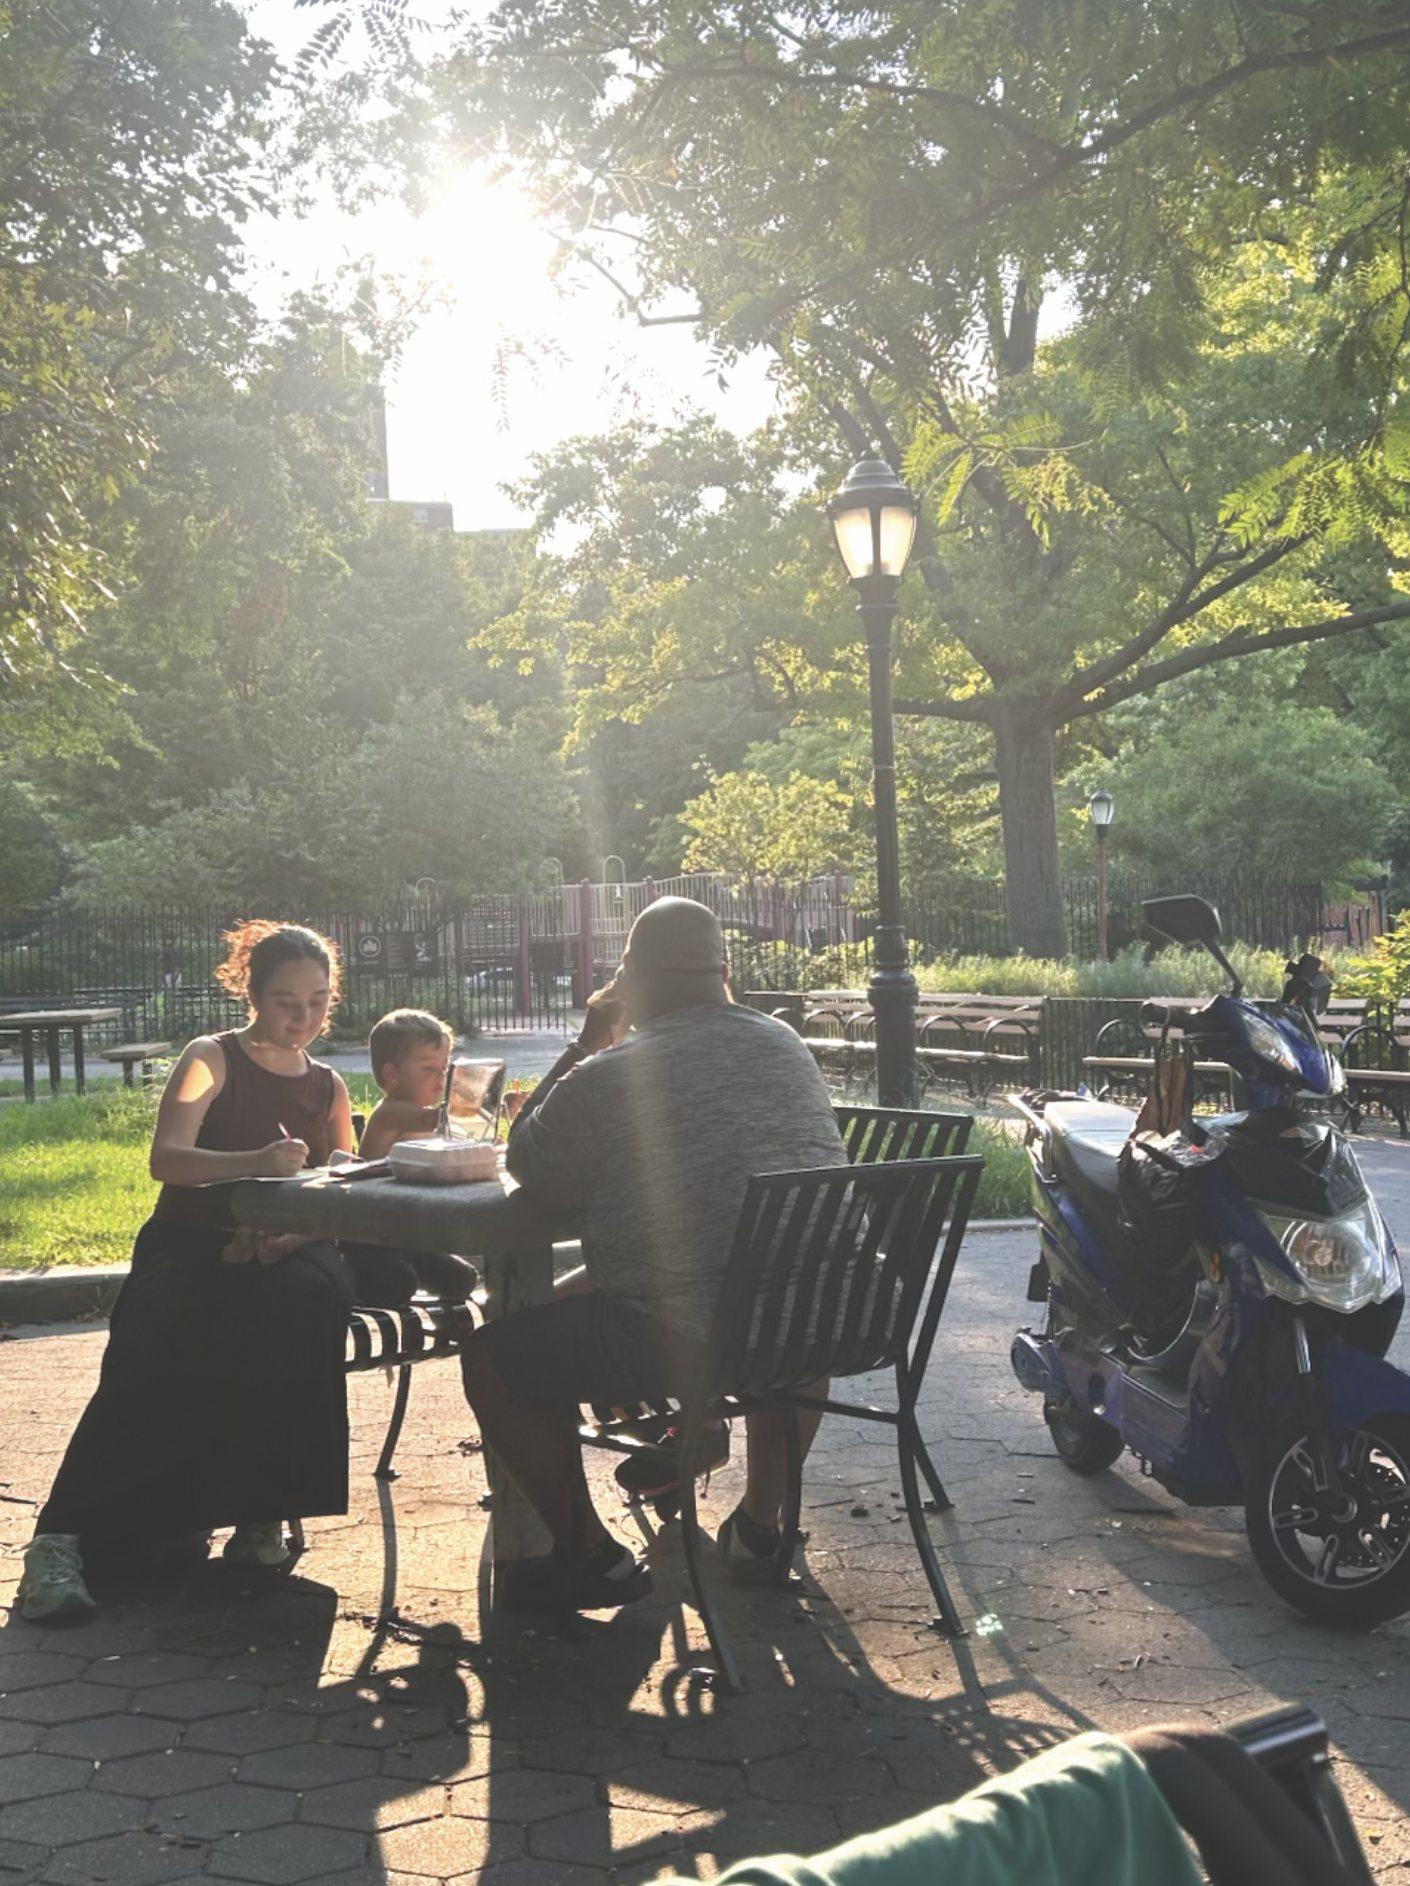
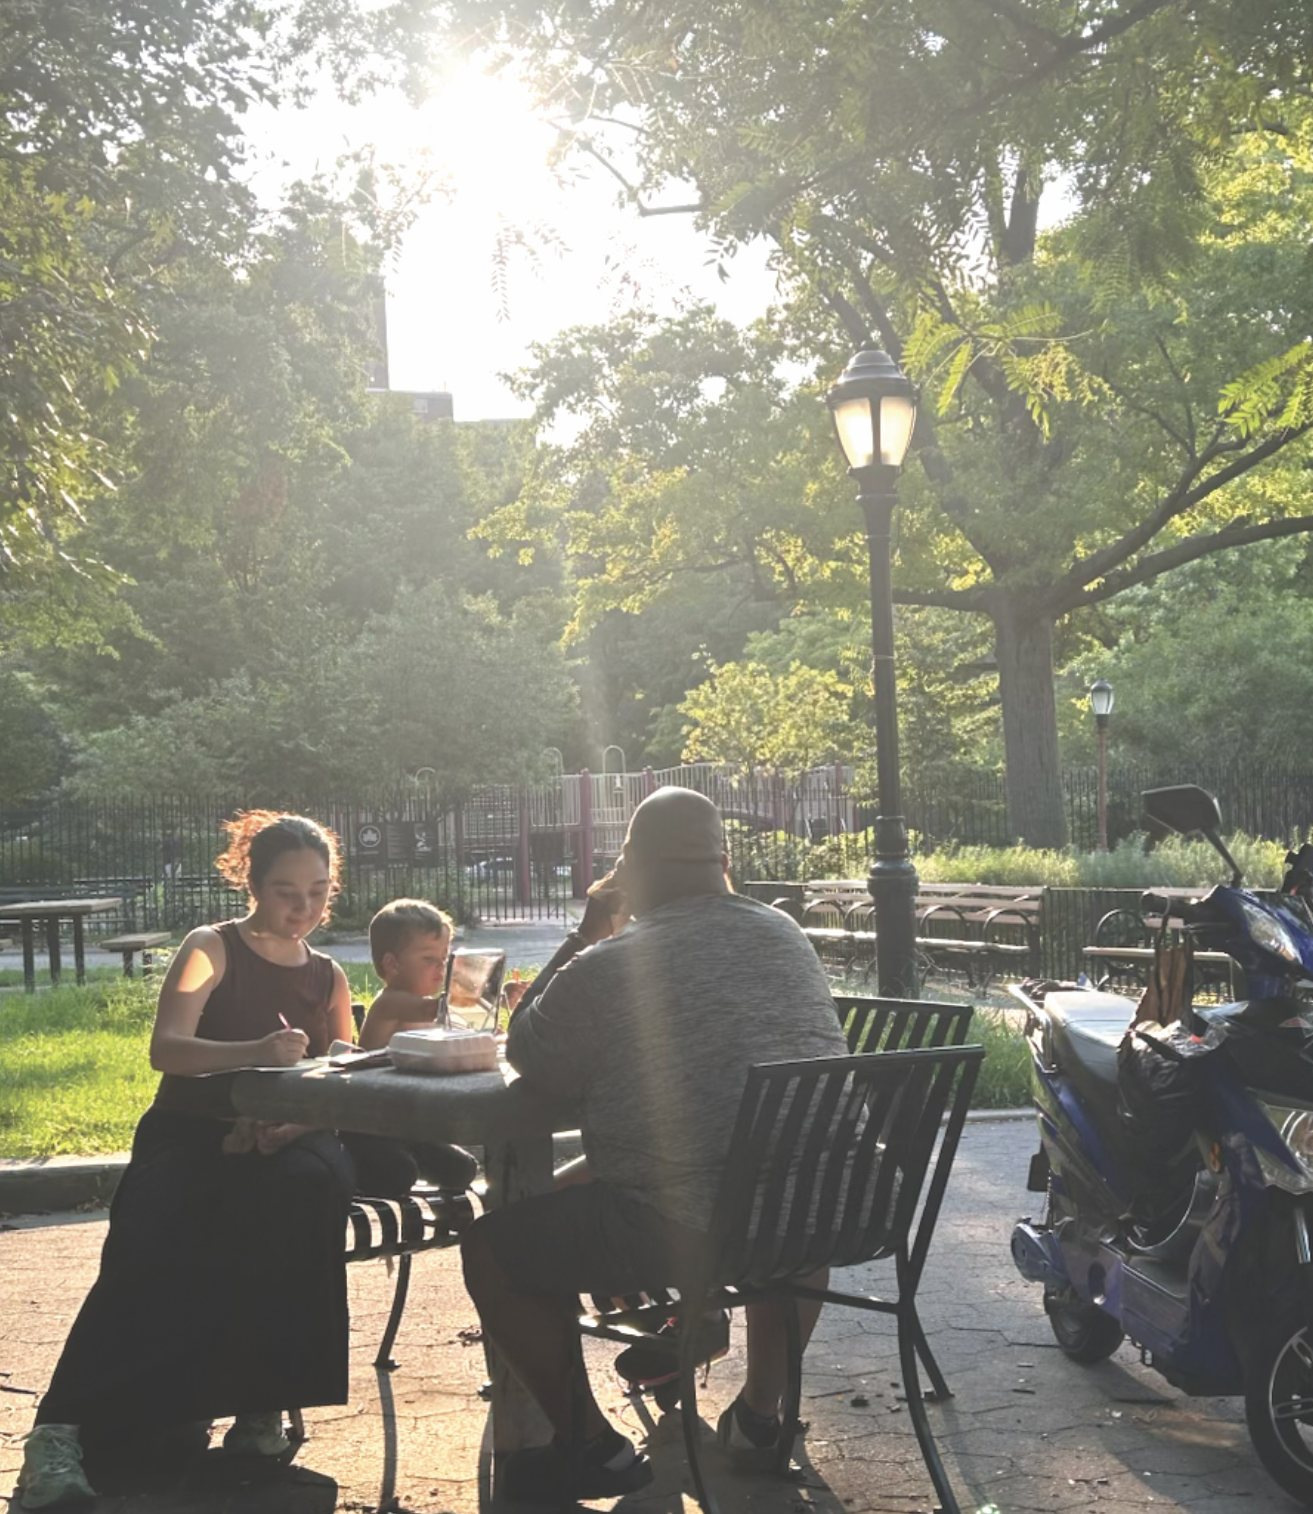
New Yorkers: tighter park photo, larger paired photos
Claude-Session: https://claude.ai/code/session_01X5WmVuL6UKnR1PWG9zHA7Q

diff --git a/reader/index.html b/reader/index.html
@@ -59,7 +59,7 @@ body::before{content:"";position:fixed;inset:0 0 auto;height:env(safe-area-inset
 .prose .photo.small{grid-template-columns:minmax(0,var(--w)) 15ch;width:auto}
 .prose .photo>figcaption{grid-column:2;grid-row:1;font-family:var(--disp);font-size:13px;line-height:1.5;color:var(--mute);padding-top:10px;border-top:3px solid var(--tint);align-self:end}
 .prose .photo>figcaption::before{content:"Photograph";display:block;font-size:11px;letter-spacing:.12em;text-transform:uppercase;font-weight:700;color:var(--tint);margin-bottom:6px}
-.prose .photo.pair{grid-template-columns:1fr 1fr;gap:20px;align-items:start}
+.prose .photo.pair{grid-template-columns:1fr 1fr;gap:22px;align-items:start;width:min(66rem,calc(100vw - 32px))}
 .prose .photo.pair>div{min-width:0}
 .prose .photo.pair>div img{display:block;width:100%;height:auto;border-radius:4px}
 .prose .photo.pair>div figcaption{font-family:var(--disp);font-size:13px;line-height:1.5;color:var(--mute);margin-top:10px;padding-top:10px;border-top:3px solid var(--tint)}
@@ -134,7 +134,7 @@ a:focus-visible{outline:2px solid var(--fg);outline-offset:3px}
 <p>Sobhani says, “People entered our home with such zeal. Before the screening started, we took a moment to admire the room filled with an array of people. The diversity was so rich – it alone made the night worthwhile.” After chatting over dinner and experiencing the films, participants shared what resonated with them and “how they wanted to show up for children,” says Guaman. Inspired, the group shared a prayer for the children in their lives and community.</p>
 <figure class="photo"><img src="../img/ny-film.jpg" alt="Community members watch a film during a devotional gathering at Felicia Sobhani's home." loading="lazy"><figcaption>Community members watch a film during a devotional gathering at Felicia Sobhani's home.</figcaption></figure>
 <p>Across the bridge in Crown Heights, Brooklyn, Juliet Bogan decided to put brush to canvas at a local park. Bogan enjoys oil painting, and brought her supplies to express creativity in the open air. Aware that children might ask to join, she also brought along washable children's paints, a pad of paper and extra brushes.</p>
-<figure class="photo"><img src="../img/ny-park.jpg" alt="Painting with children at the plaza in Crown Heights, Brooklyn." loading="lazy"><figcaption>Painting with children at the plaza in Crown Heights, Brooklyn.</figcaption></figure>
+<figure class="photo small" style="--w:720px"><img src="../img/ny-park.jpg" alt="Painting with children at the plaza in Crown Heights, Brooklyn." loading="lazy"><figcaption>Painting with children at the plaza in Crown Heights, Brooklyn.</figcaption></figure>
 <blockquote class="pull"><p>And paint I most certainly did not! The arts are magnetic.</p><cite>Juliet Bogan</cite></blockquote>
 <p>As she prepared to paint, more than half a dozen children and their parents gathered around her. Using three nearby tables, Bogan spent the afternoon guiding the expanding group of children and getting to know the families. Since then, the classes are held weekly in this same plaza. Friends from the neighborhood, many of them youth, are now supporting the effort. As a result, relationships among a growing group of families living in the complex adjacent to the park are developing.</p>
 <figure class="photo"><img src="../img/ny-table.jpg" alt="The painting table at the plaza in Crown Heights: a watercolor set, children's brushes, and the portrait captioned I am kind, loving, and friendly." loading="lazy"><figcaption>The painting table at the plaza in Crown Heights: a watercolor set, children's brushes, and the portrait captioned I am kind, loving, and friendly.</figcaption></figure>

diff --git a/folio/index.html b/folio/index.html
@@ -88,7 +88,7 @@ body::before{content:"";position:fixed;inset:0 0 auto;height:env(safe-area-inset
 .prose .photo>figcaption{grid-column:1;grid-row:2;margin-top:10px}
 .prose .photo.small{grid-column:2;display:block;max-width:var(--w)}
 .prose .photo.small>figcaption{margin-top:10px}
-.prose .photo.pair{grid-column:1/3;grid-template-columns:1fr 1fr;gap:16px;align-items:start}
+.prose .photo.pair{grid-column:1/-1;grid-template-columns:1fr 1fr;gap:20px;align-items:start}
 .prose .photo.pair>div{grid-column:auto}
 .prose .photo.pair>div{min-width:0}
 @media (max-width:640px){.prose .photo.pair{grid-template-columns:1fr}}
@@ -198,7 +198,7 @@ a:focus-visible{outline:2px solid var(--accent);outline-offset:3px}
 <p>Sobhani says, “People entered our home with such zeal. Before the screening started, we took a moment to admire the room filled with an array of people. The diversity was so rich – it alone made the night worthwhile.” After chatting over dinner and experiencing the films, participants shared what resonated with them and “how they wanted to show up for children,” says Guaman. Inspired, the group shared a prayer for the children in their lives and community.</p>
 <figure class="photo"><img src="../img/ny-film.jpg" alt="Community members watch a film during a devotional gathering at Felicia Sobhani's home." loading="lazy"><figcaption>Community members watch a film during a devotional gathering at Felicia Sobhani's home.</figcaption></figure>
 <p>Across the bridge in Crown Heights, Brooklyn, Juliet Bogan decided to put brush to canvas at a local park. Bogan enjoys oil painting, and brought her supplies to express creativity in the open air. Aware that children might ask to join, she also brought along washable children's paints, a pad of paper and extra brushes.</p>
-<figure class="photo"><img src="../img/ny-park.jpg" alt="Painting with children at the plaza in Crown Heights, Brooklyn." loading="lazy"><figcaption>Painting with children at the plaza in Crown Heights, Brooklyn.</figcaption></figure>
+<figure class="photo small" style="--w:720px"><img src="../img/ny-park.jpg" alt="Painting with children at the plaza in Crown Heights, Brooklyn." loading="lazy"><figcaption>Painting with children at the plaza in Crown Heights, Brooklyn.</figcaption></figure>
 <blockquote class="pull"><p>And paint I most certainly did not! The arts are magnetic.</p><cite>Juliet Bogan</cite></blockquote>
 <p>As she prepared to paint, more than half a dozen children and their parents gathered around her. Using three nearby tables, Bogan spent the afternoon guiding the expanding group of children and getting to know the families. Since then, the classes are held weekly in this same plaza. Friends from the neighborhood, many of them youth, are now supporting the effort. As a result, relationships among a growing group of families living in the complex adjacent to the park are developing.</p>
 <figure class="photo"><img src="../img/ny-table.jpg" alt="The painting table at the plaza in Crown Heights: a watercolor set, children's brushes, and the portrait captioned I am kind, loving, and friendly." loading="lazy"><figcaption>The painting table at the plaza in Crown Heights: a watercolor set, children's brushes, and the portrait captioned I am kind, loving, and friendly.</figcaption></figure>

diff --git a/plates/index.html b/plates/index.html
@@ -67,6 +67,7 @@ body::before{content:"";position:fixed;inset:0 0 auto;height:env(safe-area-inset
 .prose .photo{margin:2.2em 0;background:var(--card);border:1px solid var(--rule);padding:10px}
 .prose .photo.pair{display:grid;grid-template-columns:1fr 1fr;gap:16px;max-width:none}
 .prose .photo.pair>div{min-width:0}
+@media (min-width:1000px){.prose .photo.pair{width:calc(100% + 14rem);margin-left:-7rem}}
 @media (max-width:640px){.prose .photo.pair{grid-template-columns:1fr}}
 .prose .photo.small{max-width:calc(var(--w) + 20px)}
 .prose .photo img{display:block;width:100%;height:auto}
@@ -142,7 +143,7 @@ a:focus-visible{outline:2px solid var(--gold);outline-offset:3px}
 <p>Sobhani says, “People entered our home with such zeal. Before the screening started, we took a moment to admire the room filled with an array of people. The diversity was so rich – it alone made the night worthwhile.” After chatting over dinner and experiencing the films, participants shared what resonated with them and “how they wanted to show up for children,” says Guaman. Inspired, the group shared a prayer for the children in their lives and community.</p>
 <figure class="photo"><img src="../img/ny-film.jpg" alt="Community members watch a film during a devotional gathering at Felicia Sobhani's home." loading="lazy"><figcaption>Community members watch a film during a devotional gathering at Felicia Sobhani's home.</figcaption></figure>
 <p>Across the bridge in Crown Heights, Brooklyn, Juliet Bogan decided to put brush to canvas at a local park. Bogan enjoys oil painting, and brought her supplies to express creativity in the open air. Aware that children might ask to join, she also brought along washable children's paints, a pad of paper and extra brushes.</p>
-<figure class="photo"><img src="../img/ny-park.jpg" alt="Painting with children at the plaza in Crown Heights, Brooklyn." loading="lazy"><figcaption>Painting with children at the plaza in Crown Heights, Brooklyn.</figcaption></figure>
+<figure class="photo small" style="--w:720px"><img src="../img/ny-park.jpg" alt="Painting with children at the plaza in Crown Heights, Brooklyn." loading="lazy"><figcaption>Painting with children at the plaza in Crown Heights, Brooklyn.</figcaption></figure>
 <blockquote class="pull"><p>And paint I most certainly did not! The arts are magnetic.</p><cite>Juliet Bogan</cite></blockquote>
 <p>As she prepared to paint, more than half a dozen children and their parents gathered around her. Using three nearby tables, Bogan spent the afternoon guiding the expanding group of children and getting to know the families. Since then, the classes are held weekly in this same plaza. Friends from the neighborhood, many of them youth, are now supporting the effort. As a result, relationships among a growing group of families living in the complex adjacent to the park are developing.</p>
 <figure class="photo"><img src="../img/ny-table.jpg" alt="The painting table at the plaza in Crown Heights: a watercolor set, children's brushes, and the portrait captioned I am kind, loving, and friendly." loading="lazy"><figcaption>The painting table at the plaza in Crown Heights: a watercolor set, children's brushes, and the portrait captioned I am kind, loving, and friendly.</figcaption></figure>

diff --git a/build/build.py b/build/build.py
@@ -149,7 +149,7 @@ body::before{{content:"";position:fixed;inset:0 0 auto;height:env(safe-area-inse
 .prose .photo>figcaption{{grid-column:1;grid-row:2;margin-top:10px}}
 .prose .photo.small{{grid-column:2;display:block;max-width:var(--w)}}
 .prose .photo.small>figcaption{{margin-top:10px}}
-.prose .photo.pair{{grid-column:1/3;grid-template-columns:1fr 1fr;gap:16px;align-items:start}}
+.prose .photo.pair{{grid-column:1/-1;grid-template-columns:1fr 1fr;gap:20px;align-items:start}}
 .prose .photo.pair>div{{grid-column:auto}}
 .prose .photo.pair>div{{min-width:0}}
 @media (max-width:640px){{.prose .photo.pair{{grid-template-columns:1fr}}}}
@@ -311,6 +311,7 @@ body::before{{content:"";position:fixed;inset:0 0 auto;height:env(safe-area-inse
 .prose .photo{{margin:2.2em 0;background:var(--card);border:1px solid var(--rule);padding:10px}}
 .prose .photo.pair{{display:grid;grid-template-columns:1fr 1fr;gap:16px;max-width:none}}
 .prose .photo.pair>div{{min-width:0}}
+@media (min-width:1000px){{.prose .photo.pair{{width:calc(100% + 14rem);margin-left:-7rem}}}}
 @media (max-width:640px){{.prose .photo.pair{{grid-template-columns:1fr}}}}
 .prose .photo.small{{max-width:calc(var(--w) + 20px)}}
 .prose .photo img{{display:block;width:100%;height:auto}}
@@ -420,7 +421,7 @@ body::before{{content:"";position:fixed;inset:0 0 auto;height:env(safe-area-inse
 .prose .photo.small{{grid-template-columns:minmax(0,var(--w)) 15ch;width:auto}}
 .prose .photo>figcaption{{grid-column:2;grid-row:1;font-family:var(--disp);font-size:13px;line-height:1.5;color:var(--mute);padding-top:10px;border-top:3px solid var(--tint);align-self:end}}
 .prose .photo>figcaption::before{{content:"Photograph";display:block;font-size:11px;letter-spacing:.12em;text-transform:uppercase;font-weight:700;color:var(--tint);margin-bottom:6px}}
-.prose .photo.pair{{grid-template-columns:1fr 1fr;gap:20px;align-items:start}}
+.prose .photo.pair{{grid-template-columns:1fr 1fr;gap:22px;align-items:start;width:min(66rem,calc(100vw - 32px))}}
 .prose .photo.pair>div{{min-width:0}}
 .prose .photo.pair>div img{{display:block;width:100%;height:auto;border-radius:4px}}
 .prose .photo.pair>div figcaption{{font-family:var(--disp);font-size:13px;line-height:1.5;color:var(--mute);margin-top:10px;padding-top:10px;border-top:3px solid var(--tint)}}

diff --git a/build/data.py b/build/data.py
@@ -80,7 +80,7 @@ dict(
         ("p","Sobhani says, “People entered our home with such zeal. Before the screening started, we took a moment to admire the room filled with an array of people. The diversity was so rich – it alone made the night worthwhile.” After chatting over dinner and experiencing the films, participants shared what resonated with them and “how they wanted to show up for children,” says Guaman. Inspired, the group shared a prayer for the children in their lives and community."),
         ("img","ny-film.jpg","Community members watch a film during a devotional gathering at Felicia Sobhani's home."),
         ("p","Across the bridge in Crown Heights, Brooklyn, Juliet Bogan decided to put brush to canvas at a local park. Bogan enjoys oil painting, and brought her supplies to express creativity in the open air. Aware that children might ask to join, she also brought along washable children's paints, a pad of paper and extra brushes."),
-        ("img","ny-park.jpg","Painting with children at the plaza in Crown Heights, Brooklyn."),
+        ("img","ny-park.jpg","Painting with children at the plaza in Crown Heights, Brooklyn.",720),
         ("q","And paint I most certainly did not! The arts are magnetic.","Juliet Bogan"),
         ("p","As she prepared to paint, more than half a dozen children and their parents gathered around her. Using three nearby tables, Bogan spent the afternoon guiding the expanding group of children and getting to know the families. Since then, the classes are held weekly in this same plaza. Friends from the neighborhood, many of them youth, are now supporting the effort. As a result, relationships among a growing group of families living in the complex adjacent to the park are developing."),
         ("img","ny-table.jpg","The painting table at the plaza in Crown Heights: a watercolor set, children's brushes, and the portrait captioned I am kind, loving, and friendly."),
